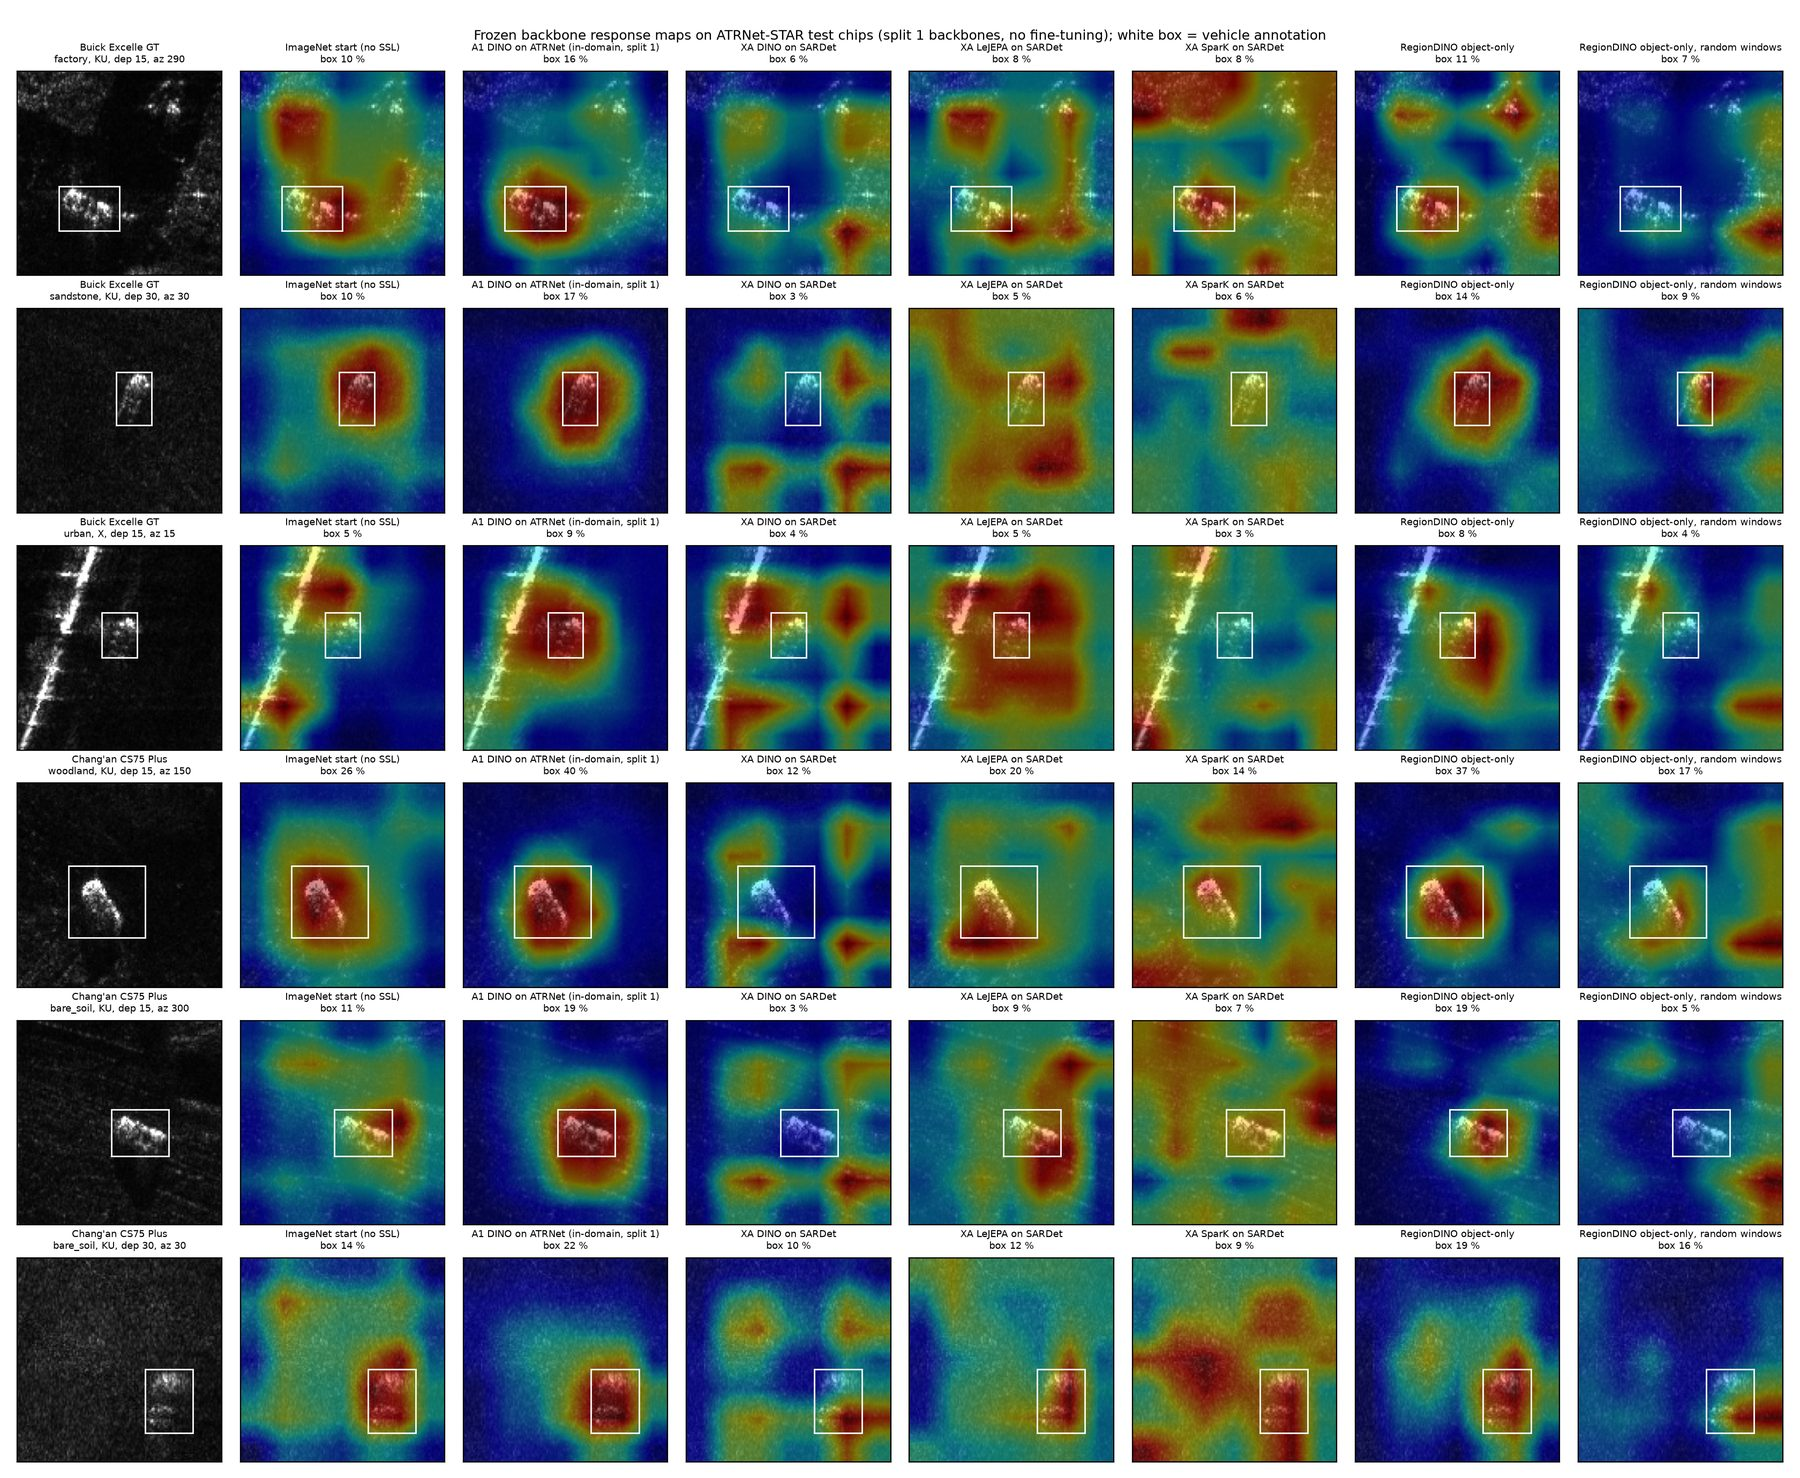
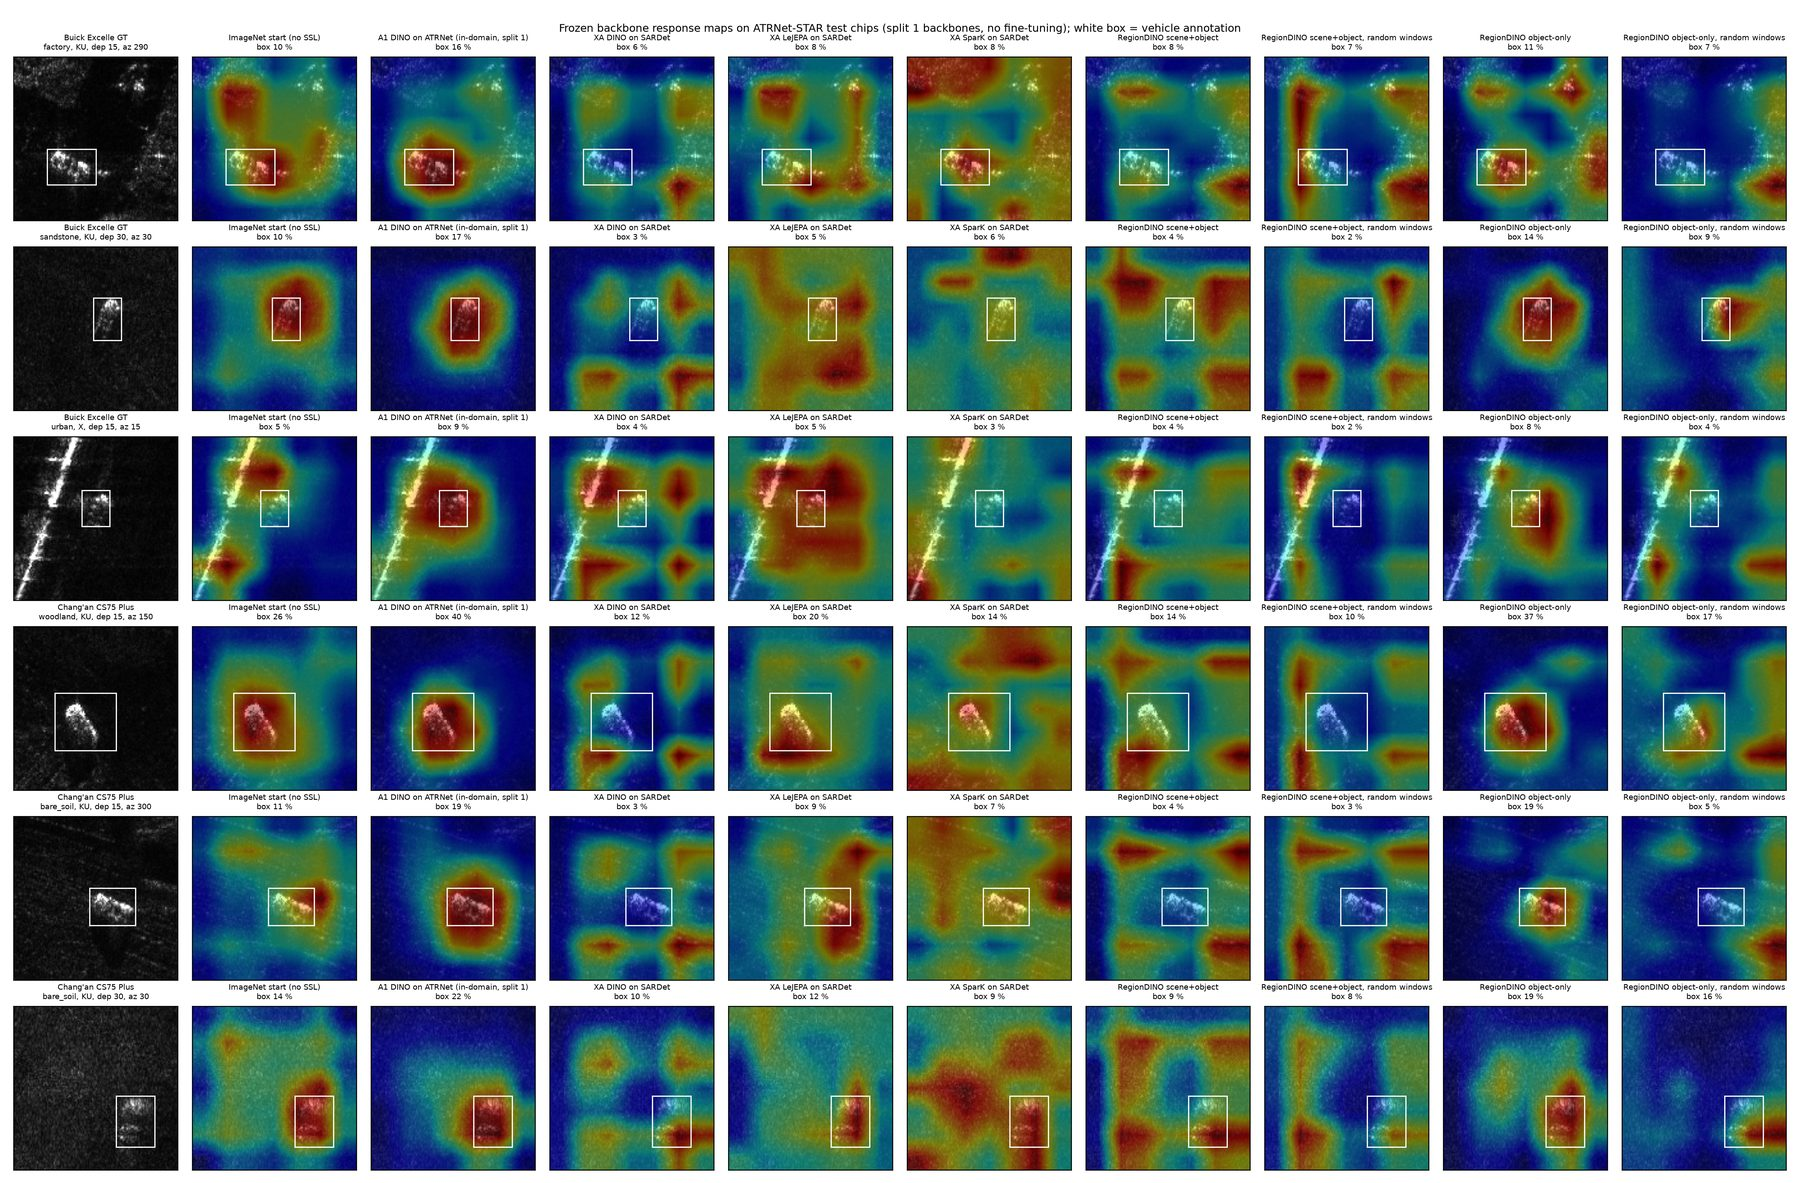
Results page v3: RegionDINO scene+object rows, maps rerun, status

diff --git a/SARDet_to_ATR/outputs/compare/results_2026-11-17.html b/SARDet_to_ATR/outputs/compare/results_2026-11-17.html
@@ -67,7 +67,7 @@ tr.sep td { border-top: 2px solid var(--line); }
 
 <main>
 <header>
-  <div class="eyebrow">CRC A100 runs, updated 2026-11-18</div>
+  <div class="eyebrow">CRC A100 runs, updated 2026-11-19</div>
   <h1>Self-supervised learning on SARDet-100K: what transfers</h1>
   <p class="sub">MobileNetV2 from ImageNet weights, then 100 epochs of SSL on 94,034 unlabeled SARDet-100K scenes, then supervised fine-tuning with 1, 3 or 10 % of the labels. Two downstream tests: the same dataset (detection, mAP) and a different one (ATRNet-STAR vehicle chips, 40-class accuracy). Three splits per cell; every difference is paired on the same split and labeled set. RegionDINO adds object views cut around label-free regions; its control cuts the same windows at random places.</p>
 </header>
@@ -77,6 +77,10 @@ tr.sep td { border-top: 2px solid var(--line); }
     <div class="num good">+9.4<small>1 % labels</small></div>
     <div class="lbl">Object views turn a cross-dataset loss into a gain</div>
     <p>27.2 / 49.0 / 73.7 % against plain DINO's 17.8 / 41.8 / 72.3: +9.4 / +7.1 / +1.4 points, positive on all nine cells, and +6.4 / +5.5 / +2.0 over no SSL. The random-window control gets only a third of that gain.</p></div>
+  <div class="card"><div class="eyebrow">ATRNet-STAR, RegionDINO scene+object vs plain DINO</div>
+    <div class="num good">+3.9<small>3 % labels</small></div>
+    <div class="lbl">Keeping the scene views costs most of the gain</div>
+    <p>20.2 / 45.7 / 73.4 % against plain DINO&rsquo;s 17.8 / 41.8 / 72.3: +2.5 / +3.9 / +1.1 points, positive on all nine cells but a third of object-only. Its control sits at the plain-DINO level, and so do its response maps: with scene views in the loss the backbone does not settle on the vehicle.</p></div>
   <div class="card"><div class="eyebrow">ATRNet-STAR, SSL on SARDet vs no SSL</div>
     <div class="num bad">&minus;3.0<small>DINO, 1 % labels</small></div>
     <div class="lbl">Scene-level DINO and LeJEPA transfer worse than plain ImageNet</div>
@@ -96,21 +100,21 @@ tr.sep td { border-top: 2px solid var(--line); }
   <p class="sub">Bars are the mean of three splits, dots are the splits. Hatched bars had their SSL stage on SARDet scenes; solid bars on ATRNet chips (in-domain). The dashed line is the ImageNet-only start.</p></div>
   <div class="legend"><span><i class="sw" style="background:var(--base)"></i>no SSL</span><span><i class="sw" style="background:var(--dino)"></i>DINO</span><span><i class="sw" style="background:var(--lejepa)"></i>LeJEPA</span><span><i class="sw" style="background:var(--spark)"></i>SparK</span><span><i class="sw" style="background:var(--cond)"></i>CondDINO</span><span><i class="sw" style="background:var(--region)"></i>RegionDINO</span><span><i class="sw hatch" style="color:var(--fg2)"></i>SSL on SARDet (cross-dataset)</span><span><i class="sw hatch" style="color:var(--fg2);opacity:.5"></i>random-window control</span></div>
   <div class="chart panels" id="fig1"></div>
-  <figcaption>Reading: in-domain SSL (solid) lifts 1 % accuracy from 21 to 35 to 41 %. Plain DINO and LeJEPA trained on SARDet scenes (hatched) land at or below the no-SSL bar. RegionDINO object-only is the best cross-dataset row at 1 and 3 % and ties SparK at 10 %; its random-window control sits between plain DINO and RegionDINO.</figcaption>
+  <figcaption>Reading: in-domain SSL (solid) lifts 1 % accuracy from 21 to 35 to 41 %. Plain DINO and LeJEPA trained on SARDet scenes (hatched) land at or below the no-SSL bar. RegionDINO object-only is the best cross-dataset row at 1 and 3 % and ties SparK at 10 %; its random-window control sits between plain DINO and RegionDINO. Scene+object lands between plain DINO and object-only, and its control at plain DINO.</figcaption>
 </figure>
 
 <figure>
   <div><div class="eyebrow">Figure 2</div><h2>Cross-dataset SSL minus no SSL, same split</h2>
   <p class="sub">ATRNet-STAR test accuracy points. One row per method and budget; three dots are the splits, the bar is their mean.</p></div>
   <div class="chart" id="fig2"></div>
-  <figcaption>RegionDINO object-only and SparK are above zero in every cell. Plain DINO crosses zero only at 10 %. LeJEPA loses 7 to 11 points everywhere.</figcaption>
+  <figcaption>RegionDINO object-only and SparK are above zero in every cell. Scene+object is above zero at 3 and 10 % and at the no-SSL level at 1 %. Plain DINO crosses zero only at 10 %. LeJEPA loses 7 to 11 points everywhere.</figcaption>
 </figure>
 
 <figure>
   <div><div class="eyebrow">Figure 2b</div><h2>RegionDINO minus plain DINO, same split and pool</h2>
   <p class="sub">The paired test of the object views: everything else (pool, epochs, scene recipe, seed) is identical to the XA DINO row. The control keeps the object views but places the windows at random.</p></div>
   <div class="chart" id="fig2b"></div>
-  <figcaption>The regions themselves carry most of the gain: random windows give +3.2 / +3.6 / +0.5, the proposed regions +9.4 / +7.1 / +1.4. Scene+object rows are added when their chains finish.</figcaption>
+  <figcaption>The regions themselves carry most of the gain: random windows give +3.2 / +3.6 / +0.5, the proposed regions +9.4 / +7.1 / +1.4. With the scene views kept (scene+object) the regions still help, +2.5 / +3.9 / +1.1 against a control at &minus;0.6 / &minus;0.3 / &minus;0.3, but at a third of the object-only size. Dropping the scene views is what makes the object views count.</figcaption>
 </figure>
 
 <div class="tw"><table id="tab1"></table></div>
@@ -135,17 +139,18 @@ tr.sep td { border-top: 2px solid var(--line); }
   <div><div class="eyebrow">Figure 5</div><h2>Where the frozen backbones respond on ATRNet test chips, before any fine-tuning</h2>
   <p class="sub">Response map = activity of the last feature map of the frozen backbone (no labels, no fine-tuning), measured against the dataset's vehicle box on 2,000 official test chips, the same chips for every model. Left: share of the map's mass inside the box; a map with no preference scores the box's area, 17.2 %. Right: share of chips whose strongest pixel lies inside the box. Bars are the mean over the three split backbones, dots the splits; the in-domain A1 backbone exists for split 1 only.</p></div>
   <div class="chart" id="fig5"></div>
-  <figcaption>Plain DINO, LeJEPA and SparK on SARDet respond <em>less</em> on the vehicle than the ImageNet start (peak in box 14 to 31 % against 47 %). RegionDINO object-only is the only SARDet backbone above the ImageNet start (peak in box 56 to 62 %), two thirds of the way to the in-domain A1 backbone (87 %). Its random-window control is back at the plain-DINO level, so the focus comes from the regions, not from the small crops.</figcaption>
+  <figcaption>Plain DINO, LeJEPA and SparK on SARDet respond <em>less</em> on the vehicle than the ImageNet start (peak in box 14 to 31 % against 47 %). RegionDINO object-only is the only SARDet backbone above the ImageNet start (peak in box 56 to 62 %), two thirds of the way to the in-domain A1 backbone (87 %). Its random-window control is back at the plain-DINO level, so the focus comes from the regions, not from the small crops. Scene+object responds like plain DINO (peak in box 12 to 21 %) and its control below it: the scene views in the loss pull the backbone back to a scene-level response, which matches its smaller accuracy gain.</figcaption>
   <div class="chart" style="padding:8px"><img src="response_maps_split1_web.jpg" alt="Six test chips with the vehicle box and the response map of each split-1 backbone" style="width:100%;height:auto;display:block;border-radius:4px"></div>
-  <figcaption>Six test chips (one per scene type, chosen by seed, not by result) with the split-1 backbones. The percentage under each map is its mass inside the white box.</figcaption>
+  <figcaption>Six test chips (one per scene type, chosen by seed, not by result) with the split-1 backbones, now including the two scene+object rows. The percentage under each map is its mass inside the white box.</figcaption>
 </figure>
 
 <section>
-  <div class="eyebrow">Rows still to come</div>
-  <h2>RegionDINO scene+object</h2>
+  <div class="eyebrow">Status</div>
+  <h2>RegionDINO rows and what comes next</h2>
   <div class="status" style="margin-top:8px">
-    <div><span class="pill">done</span> Object-only and its control: 6 SSL runs, 18 ATRNet fine-tunes, response maps (above).</div>
-    <div><span class="pill">running</span> Scene+object and its control: 6 SSL chains past epoch 80 on 2026-11-18 afternoon; each needs about 10 GPU-hours, twice object-only. Their 6 fine-tunes and a rerun of the maps follow.</div>
+    <div><span class="pill">done</span> Object-only and its control: 6 SSL runs (5.3 GPU-h each), 18 ATRNet fine-tunes, response maps.</div>
+    <div><span class="pill">done</span> Scene+object and its control: 6 SSL runs (about 10 GPU-h each), 18 ATRNet fine-tunes, response maps rerun with them (all above).</div>
+    <div><span class="pill">running</span> Arm I, the in-domain test: the same engine on the ATRNet SSL pool (plain-DINO reference, both RegionDINO modes, both controls, 3 splits = 15 chains), compared against A1. Restarted on 2026-11-18 evening with the chips staged to node-local disk after the first attempt was I/O-bound; completion not yet verified. 15 fine-tunes and a maps rerun follow.</div>
     <div><span class="pill">reference</span> Region file: 5,620,993 label-free regions over 94,034 images (CRC job 24761191, 48 min, 16 CPUs). The PC rebuild agreed on every count except one region.</div>
   </div>
 </section>
@@ -154,8 +159,8 @@ tr.sep td { border-top: 2px solid var(--line); }
   <div class="eyebrow" style="margin-bottom:4px">Where the numbers come from</div>
   <div>ATRNet-STAR table: <code>SARDet_to_ATR/compare.py</code> &rarr; <code>SARDet_to_ATR/outputs/compare/cross_dataset.csv</code>. Model selection: epoch with highest validation accuracy; the official test set is scored once.</div>
   <div>Detection tables: <code>SARDet/compare/compare.py</code> &rarr; <code>SARDet/compare/outputs/20261117-223630/</code> (summary.md, runs.csv, per_source.csv). Model selection: best validation mAP on the 800-image selection set.</div>
-  <div>SSL and fine-tune runs: CRC A100 40 GB, repository commit b111bda (results), SSL runs at 7aea6de and earlier. SSL export rule: final epoch, no selection. Fine-tune seeds fixed at 0; splits differ in labeled set and SSL seed.</div>
-  <div>Response maps: <code>SARDet_to_ATR/response_maps.py</code> (CRC job xa_maps, 2026-11-18) &rarr; <code>SARDet_to_ATR/outputs/compare/response_maps.md</code>, per-model and per-chip CSVs, split-1 figure. Same measure as the earlier A1-vs-P4 saliency study.</div>
+  <div>SSL and fine-tune runs: CRC A100 40 GB, repository commits b111bda, 45eb52e and 0c2d206 (results), SSL runs at 7aea6de and earlier. SSL export rule: final epoch, no selection. Fine-tune seeds fixed at 0; splits differ in labeled set and SSL seed.</div>
+  <div>Response maps: <code>SARDet_to_ATR/response_maps.py</code> (CRC job xa_maps 4754162, 2026-11-18, after the scene+object chains finished) &rarr; <code>SARDet_to_ATR/outputs/compare/response_maps.md</code>, per-model and per-chip CSVs, split-1 figure. Same measure as the earlier A1-vs-P4 saliency study.</div>
   <div>RegionDINO: <code>RegionSSL/</code> (DESIGN.md, README.md); SSL runs 2026-11-18, 100 epochs, same pool, epochs and scene recipe as XA DINO; backbone SHA-256 of each fine-tune recorded in its run_info.json.</div>
   <div>In-domain rows (A1, A2, A3, P4) come from the earlier ATRNet studies and are repeated here for scale.</div>
 </section>
@@ -175,6 +180,8 @@ const ATR = {
   "CondDINO, SSL on ATRNet":      {key:"cond", pool:"atr",    v:{1:[39.35,41.03,41.89], 3:[59.63,60.26,60.41], 10:[78.43,78.87,78.63]}},
   "RegionDINO object-only, SSL on SARDet": {key:"region", pool:"sardet", v:{1:[27.63,27.29,26.63], 3:[48.80,49.28,48.84], 10:[73.49,73.83,73.82]}},
   "RegionDINO object-only, random windows (control)": {key:"region", pool:"sardet", ctrl:true, v:{1:[20.34,21.29,21.16], 3:[45.53,46.23,44.55], 10:[72.55,73.03,72.61]}},
+  "RegionDINO scene+object, SSL on SARDet": {key:"region", pool:"sardet", v:{1:[19.68,20.98,20.14], 3:[45.52,46.21,45.52], 10:[73.37,73.22,73.46]}},
+  "RegionDINO scene+object, random windows (control)": {key:"region", pool:"sardet", ctrl:true, v:{1:[16.97,17.41,17.00], 3:[41.76,42.35,40.41], 10:[72.29,72.48,71.02]}},
 };
 // frozen-backbone response maps on 2000 ATRNet test chips: mass in vehicle box (%), peak in box (% of chips); per split
 const MAPS = [
@@ -185,6 +192,8 @@ const MAPS = [
   ["XA SparK on SARDet", "spark", [18.8,18.6,18.9], [16.0,13.9,15.2]],
   ["RegionDINO object-only", "region", [28.0,25.9,26.3], [62.1,56.2,59.2]],
   ["RegionDINO object-only, random windows", "region", [18.3,16.4,19.4], [13.1,13.8,19.1]],
+  ["RegionDINO scene+object", "region", [18.4,18.9,18.9], [11.6,21.0,14.1]],
+  ["RegionDINO scene+object, random windows", "region", [14.9,16.2,16.3], [11.0,12.7,10.2]],
 ];
 const BOX_AREA = 17.2;
 // detection: official test mAP per split, and AP50
@@ -284,15 +293,15 @@ function dotPlot(hostId, rows, xmin, xmax, unit){
 // Figure 2: XA minus A0
 (function(){
   const base = ATR["no SSL (ImageNet only)"].v; const rows=[];
-  ["DINO, SSL on SARDet","LeJEPA, SSL on SARDet","SparK, SSL on SARDet","RegionDINO object-only, SSL on SARDet","RegionDINO object-only, random windows (control)"].forEach(n => [1,3,10].forEach(b => rows.push({label:n.replace(", SSL on SARDet"," on SARDet").replace(", random windows (control)"," control"), group:n, budget:b, key:ATR[n].key, d: ATR[n].v[b].map((v,i)=>v-base[b][i])})));
+  ["DINO, SSL on SARDet","LeJEPA, SSL on SARDet","SparK, SSL on SARDet","RegionDINO object-only, SSL on SARDet","RegionDINO object-only, random windows (control)","RegionDINO scene+object, SSL on SARDet","RegionDINO scene+object, random windows (control)"].forEach(n => [1,3,10].forEach(b => rows.push({label:n.replace(", SSL on SARDet"," on SARDet").replace(", random windows (control)"," control"), group:n, budget:b, key:ATR[n].key, d: ATR[n].v[b].map((v,i)=>v-base[b][i])})));
   dotPlot("fig2", rows, -13, 11, "accuracy points, SSL on SARDet minus no SSL (~ = splits disagree in sign)");
 })();
 
 // Figure 2b: RegionDINO minus XA DINO
 (function(){
   const ref = ATR["DINO, SSL on SARDet"].v; const rows=[];
-  [["RegionDINO object-only, SSL on SARDet","RegionDINO object-only"],["RegionDINO object-only, random windows (control)","random-window control"]].forEach(([n,label]) => [1,3,10].forEach(b => rows.push({label, group:n, budget:b, key:"region", d: ATR[n].v[b].map((v,i)=>v-ref[b][i])})));
-  dotPlot("fig2b", rows, -2, 12, "accuracy points, RegionDINO minus plain DINO on SARDet");
+  [["RegionDINO object-only, SSL on SARDet","RegionDINO object-only"],["RegionDINO object-only, random windows (control)","object-only, random windows"],["RegionDINO scene+object, SSL on SARDet","RegionDINO scene+object"],["RegionDINO scene+object, random windows (control)","scene+object, random windows"]].forEach(([n,label]) => [1,3,10].forEach(b => rows.push({label, group:n, budget:b, key:"region", d: ATR[n].v[b].map((v,i)=>v-ref[b][i])})));
+  dotPlot("fig2b", rows, -3, 12, "accuracy points, RegionDINO minus plain DINO on SARDet");
 })();
 
 // Figure 5: response maps, two panels

diff --git a/SARDet_to_ATR/outputs/compare/cross_dataset.md b/SARDet_to_ATR/outputs/compare/cross_dataset.md
@@ -12,6 +12,8 @@
 | XA DINO on SARDet | 17.1 / 18.0 / 18.1 | 17.8 (0.5) | 41.4 / 41.8 / 42.3 | 41.8 (0.4) | 71.3 / 72.8 / 72.7 | 72.3 (0.8) |
 | XA LeJEPA on SARDet | 12.3 / 13.4 / 11.1 | 12.3 (1.2) | 31.6 / 34.4 / 32.4 | 32.8 (1.4) | 64.0 / 65.4 / 64.2 | 64.6 (0.8) |
 | XA SparK on SARDet | 21.5 / 23.3 / 23.2 | 22.7 (1.0) | 47.4 / 48.5 / 48.2 | 48.0 (0.6) | 74.0 / 73.9 / 73.9 | 73.9 (0.1) |
+| XA RegionDINO scene+object on SARDet | 19.7 / 21.0 / 20.1 | 20.2 (0.7) | 45.5 / 46.2 / 45.5 | 45.7 (0.4) | 73.4 / 73.2 / 73.5 | 73.4 (0.2) |
+| XA RegionDINO scene+object, random windows (control) | 17.0 / 17.4 / 17.0 | 17.1 (0.3) | 41.8 / 42.4 / 40.4 | 41.5 (1.0) | 72.3 / 72.5 / 71.0 | 72.0 (0.8) |
 | XA RegionDINO object-only on SARDet | 27.6 / 27.3 / 26.6 | 27.2 (0.5) | 48.8 / 49.3 / 48.8 | 49.0 (0.3) | 73.5 / 73.8 / 73.8 | 73.7 (0.2) |
 | XA RegionDINO object-only, random windows (control) | 20.3 / 21.3 / 21.2 | 20.9 (0.6) | 45.5 / 46.2 / 44.6 | 45.4 (0.8) | 72.6 / 73.0 / 72.6 | 72.7 (0.2) |
 
@@ -30,6 +32,12 @@ Reference = the same method's ATRNet-SSL row (A1/A2/A3) for DINO/LeJEPA/SparK; =
 | XA SparK on SARDet | 1pct | -3.1 / -1.1 / -1.7 | -2.0 | +0.7 / +2.5 / +2.5 | +1.9 |
 | XA SparK on SARDet | 3pct | -3.3 / -2.1 / -1.4 | -2.3 | +4.6 / +5.6 / +3.7 | +4.6 |
 | XA SparK on SARDet | 10pct | -0.3 / -0.6 / -1.0 | -0.6 | +2.8 / +2.3 / +1.6 | +2.2 |
+| XA RegionDINO scene+object on SARDet | 1pct | +2.5 / +2.9 / +2.0 | +2.5 | -1.1 / +0.2 / -0.6 | -0.5 |
+| XA RegionDINO scene+object on SARDet | 3pct | +4.1 / +4.4 / +3.2 | +3.9 | +2.7 / +3.2 / +1.0 | +2.3 |
+| XA RegionDINO scene+object on SARDet | 10pct | +2.1 / +0.4 / +0.9 | +1.1 | +2.2 / +1.6 / +1.2 | +1.7 |
+| XA RegionDINO scene+object, random windows (control) | 1pct | -0.2 / -0.6 / -1.1 | -0.6 | -3.8 / -3.4 / -3.7 | -3.6 |
+| XA RegionDINO scene+object, random windows (control) | 3pct | +0.3 / +0.5 / -1.9 | -0.3 | -1.0 / -0.6 / -4.1 | -1.9 |
+| XA RegionDINO scene+object, random windows (control) | 10pct | +1.0 / -0.3 / -1.6 | -0.3 | +1.1 / +0.9 / -1.3 | +0.2 |
 | XA RegionDINO object-only on SARDet | 1pct | +10.5 / +9.3 / +8.5 | +9.4 | +6.9 / +6.5 / +5.9 | +6.4 |
 | XA RegionDINO object-only on SARDet | 3pct | +7.3 / +7.5 / +6.5 | +7.1 | +6.0 / +6.3 / +4.3 | +5.5 |
 | XA RegionDINO object-only on SARDet | 10pct | +2.1 / +1.0 / +1.1 | +1.4 | +2.3 / +2.2 / +1.5 | +2.0 |
